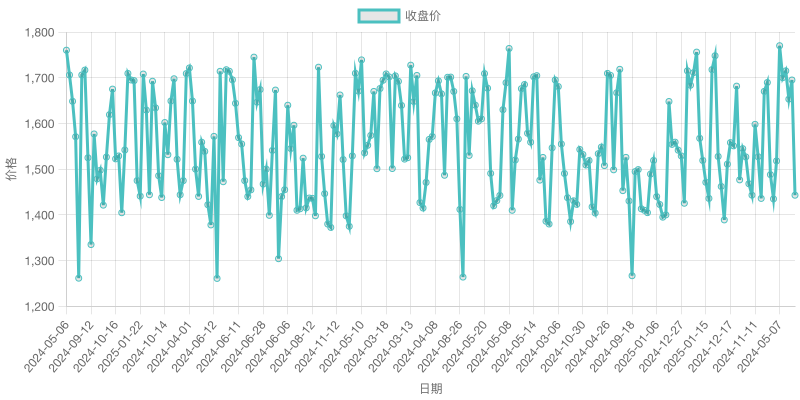
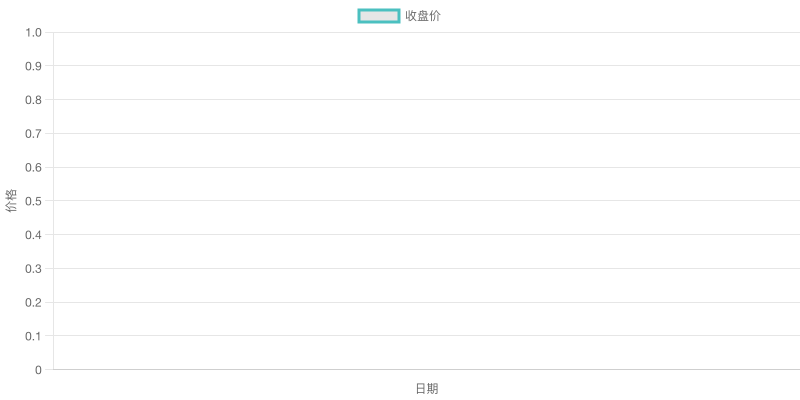
升级吧

diff --git a/examples/quantitative/toImage.js b/examples/quantitative/toImage.js
@@ -1,6 +1,12 @@
-const axios = require('axios');
-const Chart = require('chart.js/auto');
-const { createCanvas, loadImage } = require('canvas');
+import { createSSRApp } from 'vue'
+import axios from 'axios';
+import Chart from 'chart.js/auto';
+import { createCanvas, loadImage } from 'canvas';
+import express from 'express';
+import { createApp } from 'vue';
+import { renderToString } from 'vue/server-renderer';
+const app = express();
+const port = 3000;
 
 // 获取股票历史数据
 async function getStockData(stockCode) {
@@ -10,9 +16,13 @@ async function getStockData(stockCode) {
 }
 
 // 使用Chart.js可视化数据
-function visualizeData(data) {
-    const dates = data.map(item => item.date);
-    const closes = data.map(item => item.close);
+function visualizeData(data, startDate, endDate) {
+    const filteredData = data.filter(item => {
+        const date = new Date(item.date);
+        return date >= new Date(startDate) && date <= new Date(endDate);
+    });
+    const dates = filteredData.map(item => item.date);
+    const closes = filteredData.map(item => item.close);
 
     // 创建canvas
     const canvas = createCanvas(800, 400);
@@ -49,19 +59,82 @@ function visualizeData(data) {
         }
     });
 
-    // 保存图表为图片
-    const fs = require('fs');
-    const out = fs.createWriteStream('stock_chart.png');
-    const stream = canvas.createPNGStream();
-    stream.pipe(out);
-    out.on('finish', () => console.log('图表已保存为 stock_chart.png'));
+    return canvas;
 }
 
-// 主函数
-async function main() {
-    const stockCode = '600519'; // 长电科技
-    const stockData = await getStockData(stockCode);
-    visualizeData(stockData);
-}
+const StockChart = {
+    template: `
+        <div>
+            <div>
+                <label>起始日期：</label>
+                <input type="date" v-model="startDate" />
+                <label>结束日期：</label>
+                <input type="date" v-model="endDate" />
+                <button @click="fetchData">更新图表</button>
+            </div>
+            <canvas ref="chartCanvas" style="width:100%;height:500px;"></canvas>
+        </div>
+    `,
+    data() {
+        return {
+            stockCode: '600519',
+            startDate: '2023-01-01',
+            endDate: '2023-12-31',
+            chartInstance: null
+        };
+    },
+    async mounted() {
+        await this.fetchData();
+    },
+    methods: {
+        async fetchData() {
+            try {
+                const stockData = await getStockData(this.stockCode);
+                const canvas = visualizeData(stockData, this.startDate, this.endDate);
+                
+                // 更新DOM中的canvas
+                const ctx = this.$refs.chartCanvas.getContext('2d');
+                this.$refs.chartCanvas.width = canvas.width;
+                this.$refs.chartCanvas.height = canvas.height;
+                ctx.drawImage(canvas, 0, 0);
+            } catch (error) {
+                console.error('获取数据失败:', error);
+            }
+        }
+    }
+};
 
-main();
+// 修改 express 路由
+app.get('/', async (req, res) => {
+    const app = createSSRApp(StockChart);
+    
+    try {
+        const html = await renderToString(app);
+        res.end(`
+            <!DOCTYPE html>
+            <html lang="en">
+            <head>
+                <meta charset="UTF-8">
+                <title>股票图表</title>
+            </head>
+            <body>
+                <div id="app">${html}</div>
+                <script src="https://unpkg.com/vue@3/dist/vue.global.js"></script>
+                <script>
+                    const { createApp } = Vue;
+                    const app = createApp(${JSON.stringify(StockChart)});
+                    // 确保在客户端挂载时触发mounted
+                    app.mount('#app', true);  // 添加true参数强制水合
+                </script>
+            </body>
+            </html>
+        `);
+    } catch (err) {
+        res.status(500).end('Internal Server Error');
+    }
+});
+
+// 修改main函数
+app.listen(port, () => {
+    console.log(`服务已启动，访问 http://localhost:${port}/chart?stockCode=600519&startDate=2023-01-01&endDate=2023-12-31`);
+});
